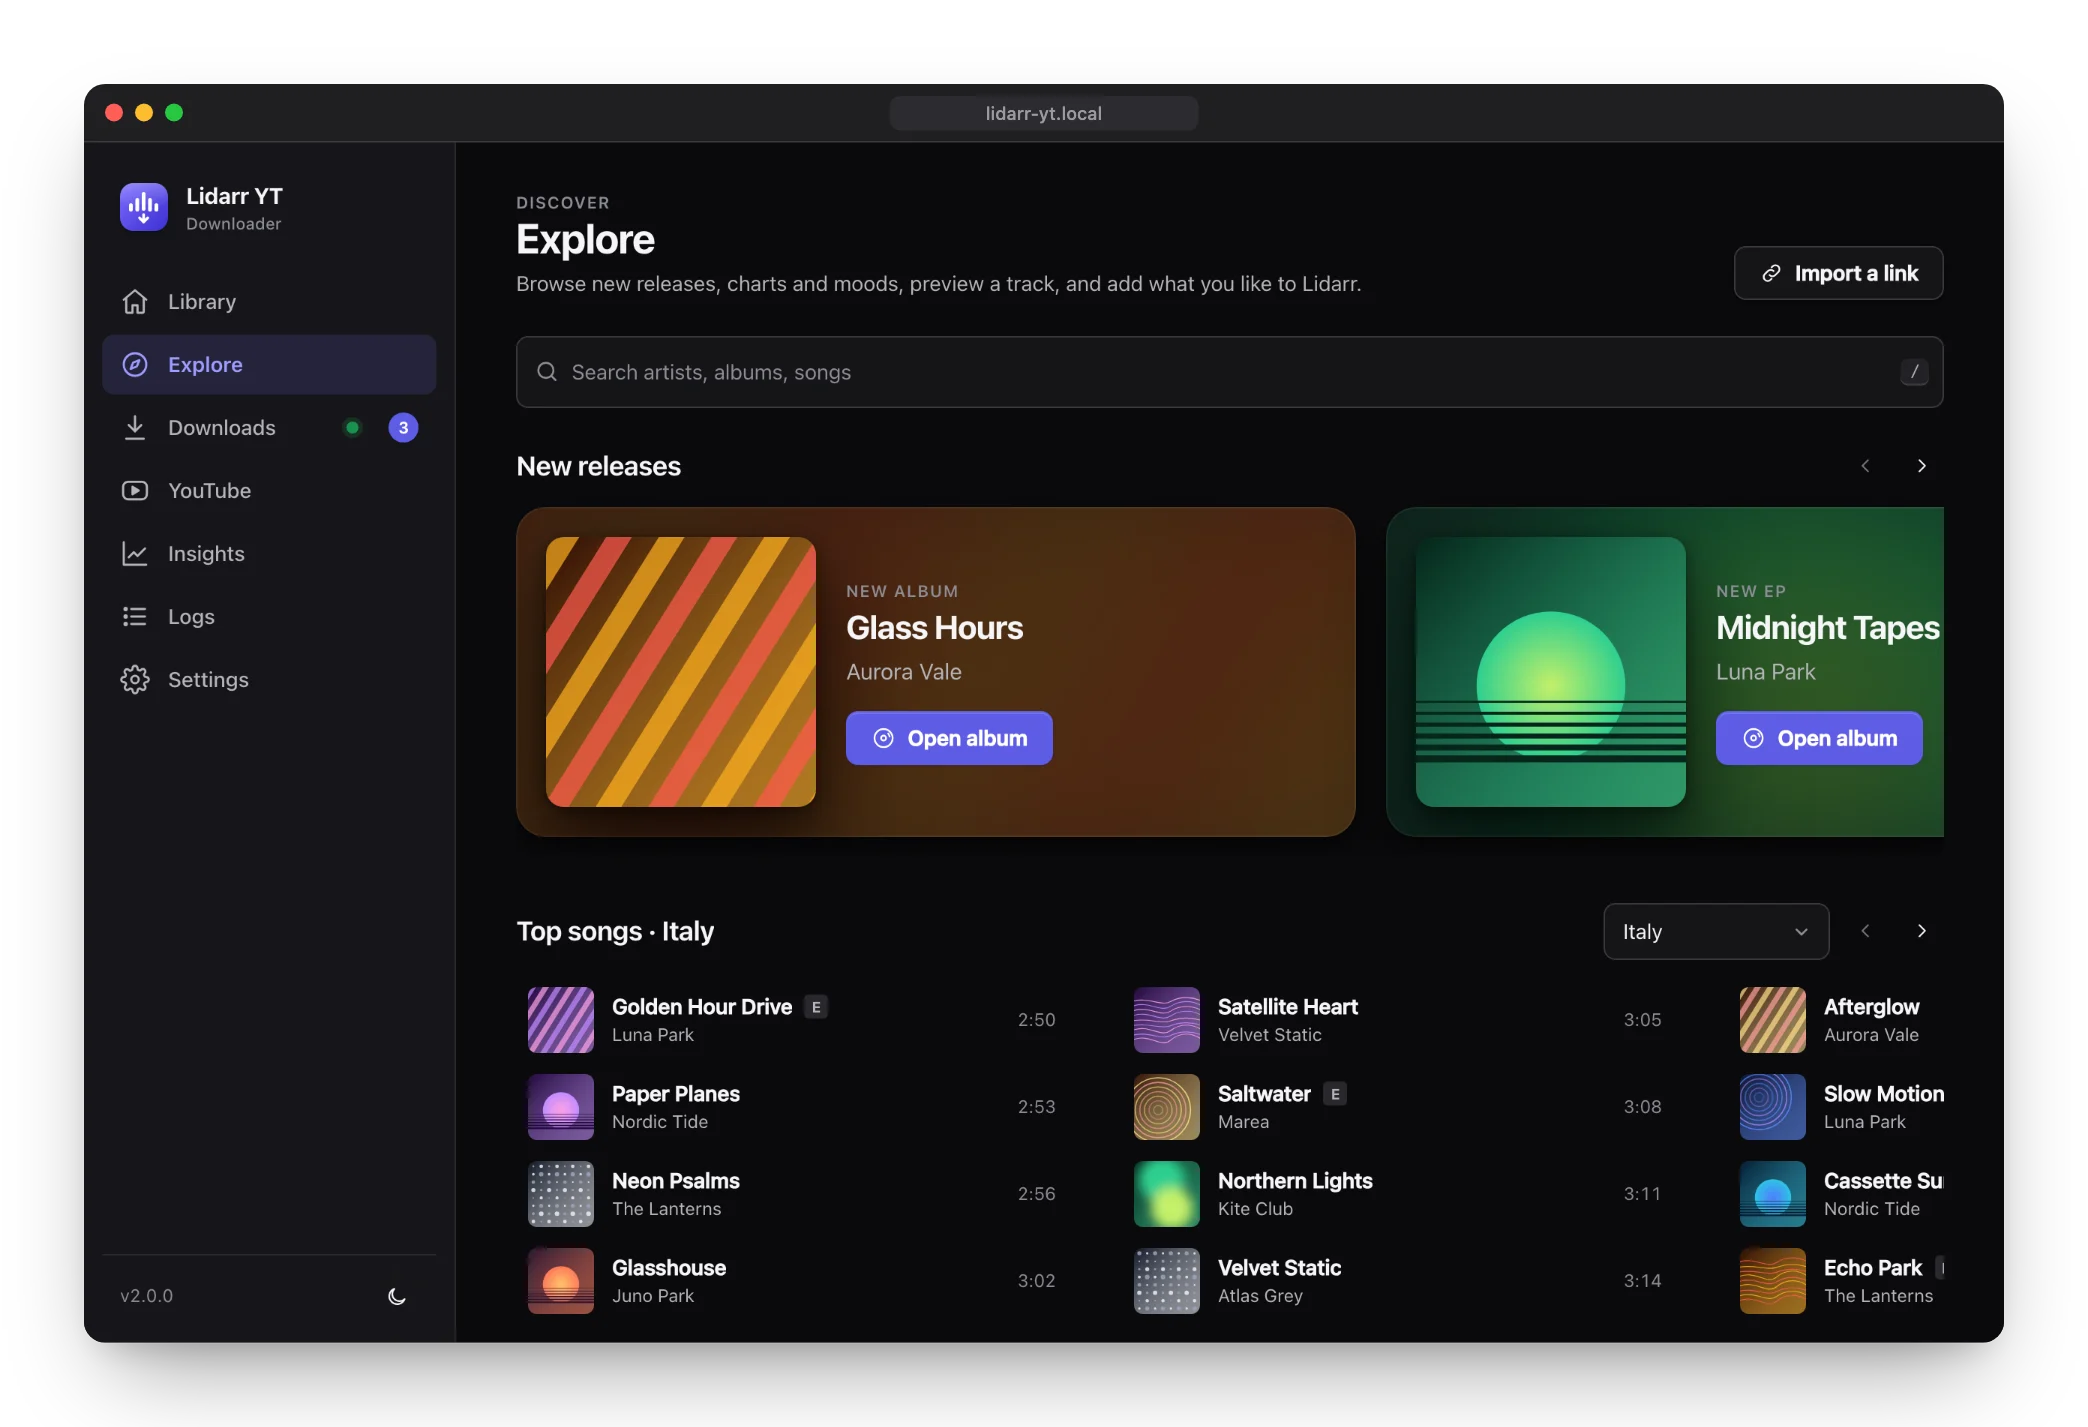
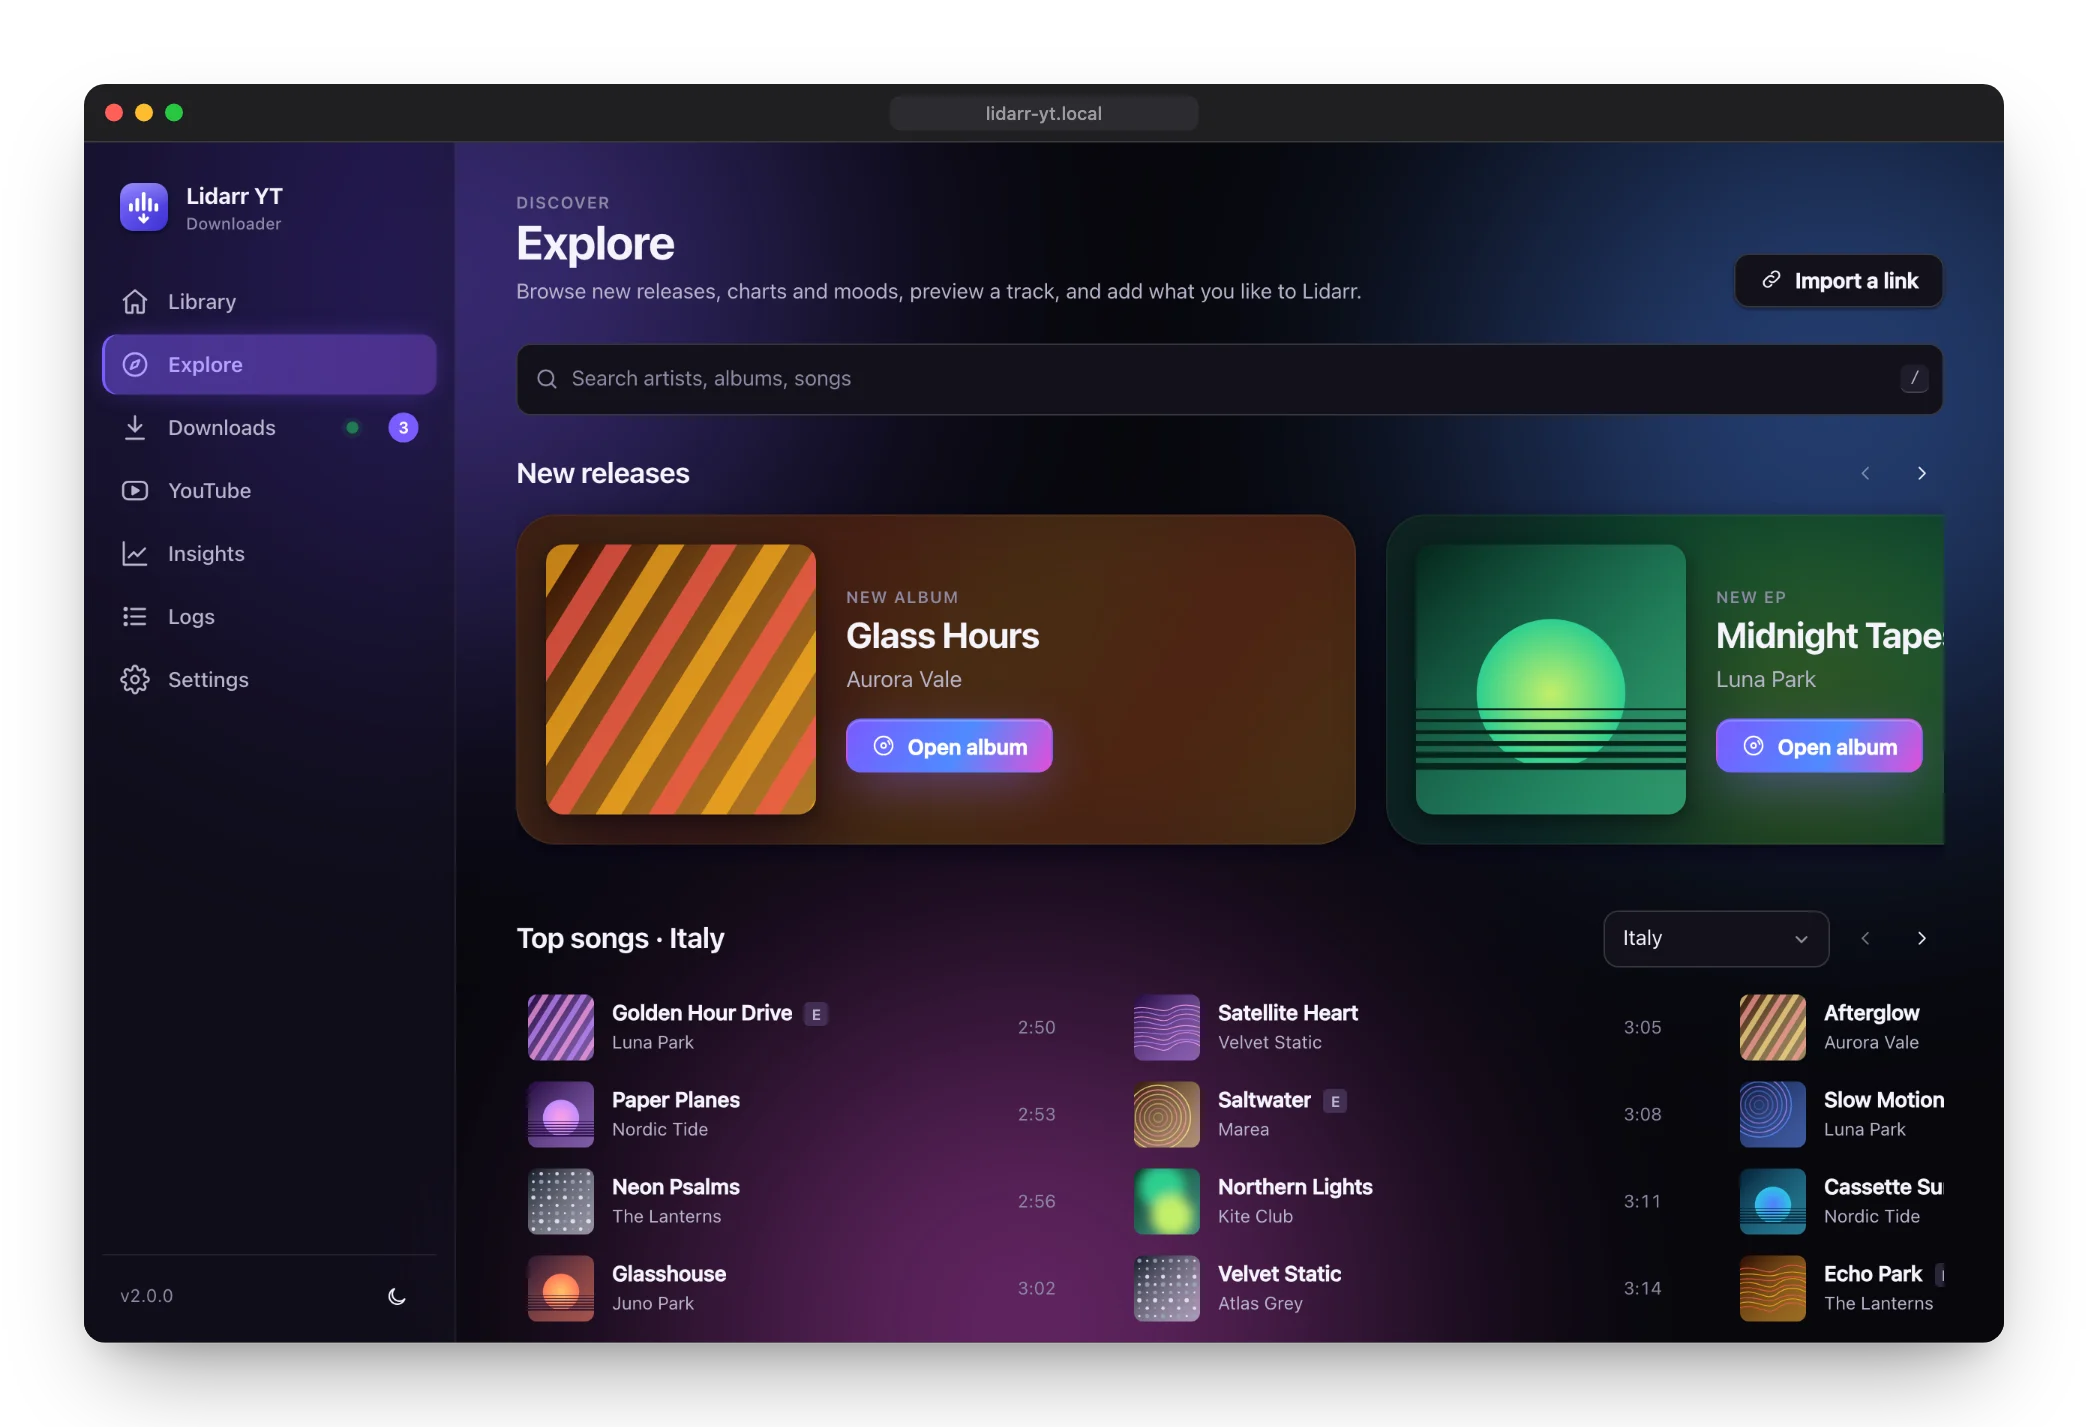
Redesign: docs and README screenshots

diff --git a/CLAUDE.md b/CLAUDE.md
@@ -435,7 +435,14 @@ variables, theme toggles, navigation or Font Awesome**.
   surfaces `--bg-base/-elevated/-elevated-2/-sunken/-overlay`, text
   `--text-1/2/3`, one accent `--accent*`, semantic `--success/warning/
   danger/info` with `-mark` and `-soft` variants, shadows `--shadow-1..3`,
-  motion `--ease` = `cubic-bezier(0.32, 0.72, 0, 1)` and `--dur-*`). Dark
+  motion `--ease` = `cubic-bezier(0.32, 0.72, 0, 1)`, `--ease-spring` and
+  `--dur-*`; the "Aurora" look adds `--accent-gradient` (violet `#7c5cff` →
+  blue → magenta, used only on the primary button, progress bars and the
+  nav indicator), `--aura-1..3` (registered with `@property` so they
+  cross-fade), `--aura-opacity`, and glass `--glass-bg/-border/-blur`,
+  `--glow-accent`). Glass (backdrop blur) is for containers only — sidebar,
+  tab bar, cards, stat tiles, now-downloading card, player, bulk bar —
+  never `.ui-album` grid items (a 5,000-album Library). Dark
   values are declared twice: under `@media (prefers-color-scheme: dark)`
   guarded by `:root:not([data-theme="light"])`, and under
   `:root[data-theme="dark"]` (manual override) — change both. Components
@@ -454,13 +461,29 @@ variables, theme toggles, navigation or Font Awesome**.
   controls on the shared classes so they inherit this. Frosted surfaces use
   `--bg-overlay` (high opacity on purpose, so text behind never competes).
 - `static/app.js` — `window.UI`: theme (`auto`/`light`/`dark`, stored in
-  `localStorage.theme`, `themechange` event, `theme-color` meta kept in
-  sync), `UI.icon(name)`, `UI.escape`, `UI.toast(msg, {type, action})`,
+  `localStorage.theme`; **dark when nothing is stored**, and `auto` is
+  stored explicitly — the pre-paint script in `_head.html` mirrors this;
+  `themechange` event, `theme-color` meta kept in sync), `UI.icon(name)`, `UI.escape`, `UI.toast(msg, {type, action})`,
   `UI.openModal/closeModal` (Esc, backdrop, focus trap/restore),
   `UI.confirm({...})` → Promise, `UI.guard(btn, fn)` (in-flight guard +
   spinner), `UI.fetchJSON`, `UI.poll(fn, ms)` (never overlaps, pauses in
   hidden tabs), nav badges from `/api/stats` (`queued`, `active`), and the
   `/` shortcut that focuses the page's `input[type="search"]`.
+- `static/aura.js` — the aurora background: prepends `.app-aura` (three
+  blurred blobs drifting 30–40 s, paused in hidden tabs, still under
+  reduced motion) to `<body>` and adds `UI.setAura(url|null)`, which
+  reduces the cover to 24×24 in a canvas, takes `UI.auraPalette()`'s
+  dominant vivid colours (grey/near-black/near-white ignored, clamped for
+  legibility) and sets `--aura-1..3`; an unreadable cover (no CORS, 404)
+  or `null` → `UI.AURA_DEFAULTS`. Callers: Library/Downloads
+  now-downloading card, Explore album/artist pages, the mini player;
+  other Explore views reset it.
+- `static/motion.js` — cover tilt (≤ 4°, fine pointers only, one delegated
+  frame-throttled listener, sheen at `--mx/--my`), `UI.stagger(el)` (first
+  12 children rise in once; `[data-stagger]` on load) and
+  `UI.countTo(el, value, ms, format)`. `auraPalette` and `tiltAngles` are
+  pure and tested under node by `tests/test_frontend_js.py`
+  (`tests/js/*.test.js`).
 - `static/icons.svg` — SVG symbol sprite (`#i-<name>`), used as
   `<svg class="ico"><use href="/static/icons.svg#i-name"></use></svg>`.
 - `templates/_head.html` (meta, manifest, CSS, pre-paint theme script,
@@ -561,4 +584,4 @@ Run tests with the venv:
 source .venv/bin/activate && python -m pytest tests/ -v
 ```
 
-Tests are in `tests/` directory mirroring module structure: `test_db.py`, `test_models.py`, `test_config.py`, `test_utils.py`, `test_notifications.py`, `test_lidarr.py`, `test_metadata.py`, `test_downloader.py`, `test_routes.py`, `test_processing.py`, `test_fingerprint.py`, `test_migrate_tool.py`, `test_download_client.py`, `test_scheduler.py`, `test_lidarr_sync.py`, `test_logutil.py`, `test_app_paths.py`, `test_fix_metadata_tool.py`, `test_library.py`, `test_explore.py` (fixtures in `tests/fixtures/ytmusic/`).
+Tests are in `tests/` directory mirroring module structure: `test_db.py`, `test_models.py`, `test_config.py`, `test_utils.py`, `test_notifications.py`, `test_lidarr.py`, `test_metadata.py`, `test_downloader.py`, `test_routes.py`, `test_processing.py`, `test_fingerprint.py`, `test_migrate_tool.py`, `test_download_client.py`, `test_scheduler.py`, `test_lidarr_sync.py`, `test_logutil.py`, `test_app_paths.py`, `test_fix_metadata_tool.py`, `test_library.py`, `test_explore.py` (fixtures in `tests/fixtures/ytmusic/`), `test_frontend_js.py` (runs `tests/js/*.test.js` under node; skipped without node).

diff --git a/README.md b/README.md
@@ -7,7 +7,7 @@
 <h1>Lidarr YouTube Downloader</h1>
 
 <p><b>The missing albums in your Lidarr library, found on YouTube.</b><br>
-<sub>Matched, verified, tagged and imported — from one calm, self-hosted web app.</sub></p>
+<sub>Matched, verified, tagged and imported — from one self-hosted web app that takes its colours from your music.</sub></p>
 
 <p>
 <a href="CHANGELOG.md"><img src="https://img.shields.io/badge/version-2.0.0-4f46e5?style=for-the-badge&labelColor=1d1d1f" alt="Version 2.0.0"></a>
@@ -166,7 +166,7 @@ Per-track progress, speed and verification, a queue you can reorder or pause, an
 
 ### In your pocket
 
-Light and dark themes, touch-sized controls and a tab bar. Add it to your home screen and it opens like an app.
+Dark and light themes, glass surfaces and a background that glows in the colours of the album you're looking at — with touch-sized controls and a tab bar. Add it to your home screen and it opens like an app.
 
 <p align="center">
 <picture>
